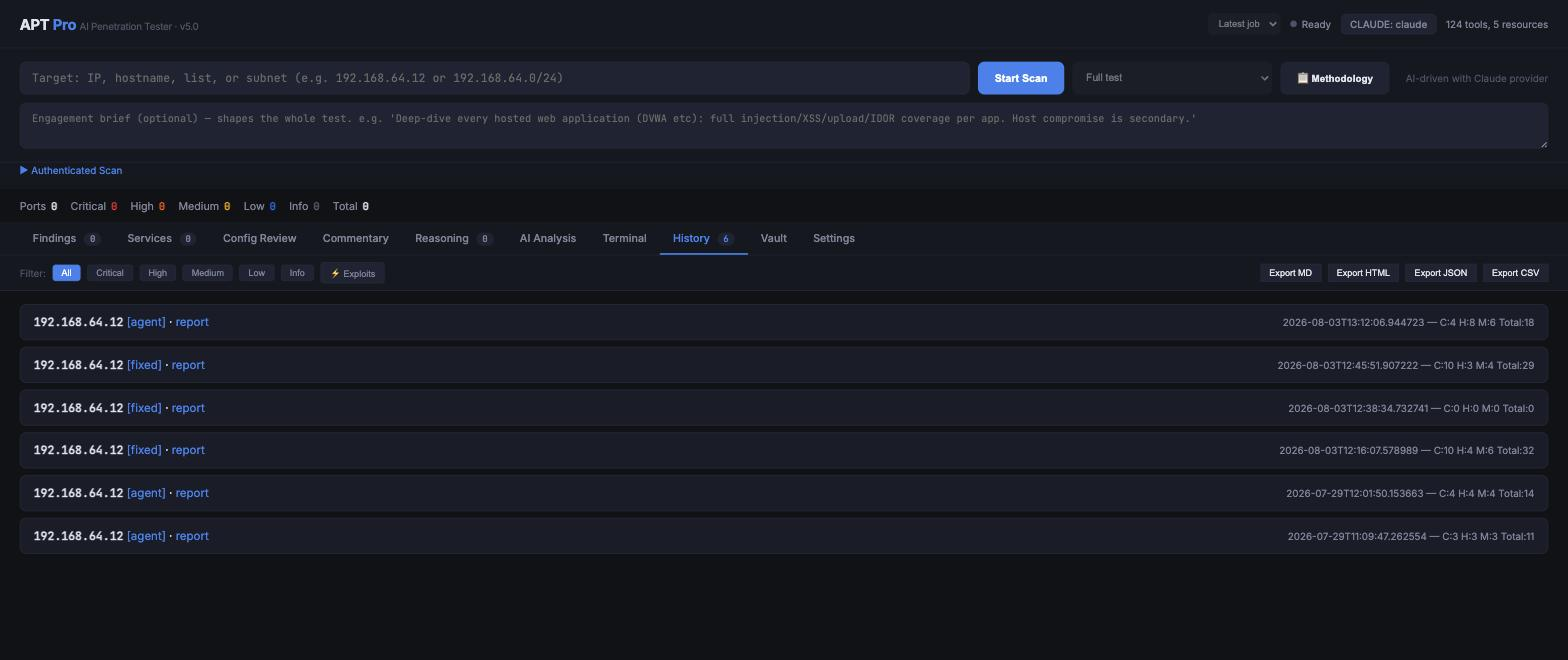
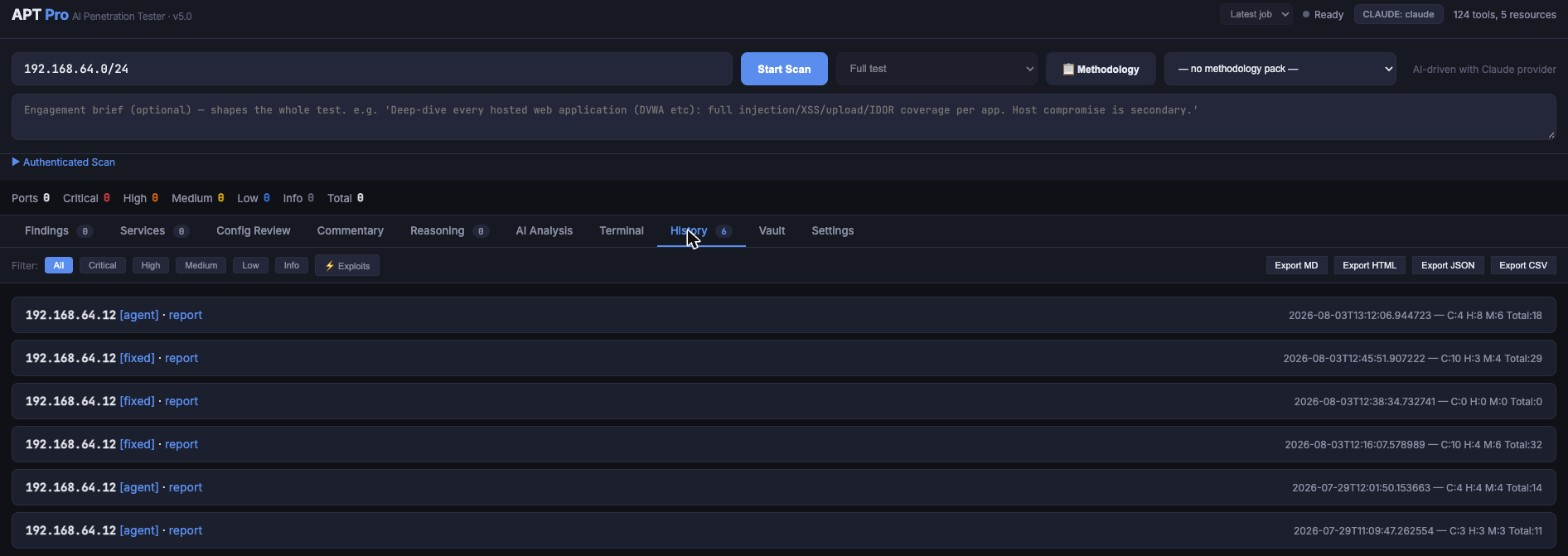
Rename ReconPro to APT Pro, add NightJARC2 graph view, refresh APT Pro screenshots

diff --git a/reconpro.html b/reconpro.html
@@ -3,7 +3,7 @@
 <head>
     <meta charset="UTF-8">
     <meta name="viewport" content="width=device-width, initial-scale=1">
-    <title>ReconPro · AI Penetration Testing Platform | Aaron Moorcroft</title>
+    <title>APT Pro · AI Penetration Testing Platform | Aaron Moorcroft</title>
     <meta name="description" content="An AI-driven penetration testing platform: a frontier agent drives nmap, nuclei, sqlmap, metasploit and the rest of the local toolset against authorised…">
     <link rel="icon" type="image/svg+xml" href="assets/favicon.svg">
     <!-- seo -->
@@ -12,19 +12,19 @@
     <meta name="theme-color" content="#05070b">
     <meta property="og:type" content="website">
     <meta property="og:site_name" content="CyberZombi3 · Aaron Moorcroft">
-    <meta property="og:title" content="ReconPro · AI Penetration Testing Platform | Aaron Moorcroft">
+    <meta property="og:title" content="APT Pro · AI Penetration Testing Platform | Aaron Moorcroft">
     <meta property="og:description" content="An AI-driven penetration testing platform: a frontier agent drives nmap, nuclei, sqlmap, metasploit and the rest of the local toolset against authorised…">
     <meta property="og:url" content="https://cyberzombi3.co.uk/reconpro.html">
     <meta property="og:image" content="https://cyberzombi3.co.uk/assets/images/reconpro.jpg">
     <meta property="og:locale" content="en_GB">
     <meta name="twitter:card" content="summary_large_image">
-    <meta name="twitter:title" content="ReconPro · AI Penetration Testing Platform | Aaron Moorcroft">
+    <meta name="twitter:title" content="APT Pro · AI Penetration Testing Platform | Aaron Moorcroft">
     <meta name="twitter:description" content="An AI-driven penetration testing platform: a frontier agent drives nmap, nuclei, sqlmap, metasploit and the rest of the local toolset against authorised…">
     <meta name="twitter:image" content="https://cyberzombi3.co.uk/assets/images/reconpro.jpg">
     <link rel="preconnect" href="https://fonts.googleapis.com">
     <link rel="preconnect" href="https://fonts.gstatic.com" crossorigin>
     <link rel="stylesheet" href="https://fonts.googleapis.com/css2?family=Inter:wght@400;500;600;700&family=Space+Grotesk:wght@500;600;700&family=JetBrains+Mono:wght@400;500;600&display=swap">
-    <script type="application/ld+json">{"@context": "https://schema.org", "@type": "CreativeWork", "name": "ReconPro", "description": "An AI-driven penetration testing platform: a frontier agent drives nmap, nuclei, sqlmap, metasploit and the rest of the local toolset against authorised…", "url": "https://cyberzombi3.co.uk/reconpro.html", "image": "https://cyberzombi3.co.uk/assets/images/reconpro.jpg", "author": {"@type": "Person", "name": "Aaron Moorcroft", "url": "https://cyberzombi3.co.uk/"}}</script>
+    <script type="application/ld+json">{"@context": "https://schema.org", "@type": "CreativeWork", "name": "APT Pro", "description": "An AI-driven penetration testing platform: a frontier agent drives nmap, nuclei, sqlmap, metasploit and the rest of the local toolset against authorised…", "url": "https://cyberzombi3.co.uk/reconpro.html", "image": "https://cyberzombi3.co.uk/assets/images/reconpro.jpg", "author": {"@type": "Person", "name": "Aaron Moorcroft", "url": "https://cyberzombi3.co.uk/"}}</script>
     <!-- /seo -->
     <link rel="stylesheet" href="assets/css/style.css?v=8">
 </head>
@@ -49,13 +49,13 @@
 
 <header class="page-header">
     <a href="projects.html" class="eyebrow-link">&larr; Projects</a>
-    <h1 class="page-title">ReconPro</h1>
+    <h1 class="page-title">APT Pro</h1>
     <p class="page-subtitle">An AI penetration testing platform. The agent plans and executes the test itself, from recon through to exploitation and reporting, driving the real local toolset, and every finding it records is verified with command output rather than inferred from a banner.</p>
     <div class="tag-row">
         <span class="tag">Python</span>
         <span class="tag">FastAPI</span>
         <span class="tag">Claude Agent SDK</span>
-        <span class="tag tag-muted">129 tools</span>
+        <span class="tag tag-muted">124 tools</span>
         <span class="tag tag-muted">Authorised targets only</span>
     </div>
 </header>
@@ -70,7 +70,7 @@
 
     <h2 class="section-header">&gt; Scan history and diffing</h2>
     <img src="assets/images/reconpro.jpg" class="project-image"
-         alt="The ReconPro interface showing the scan history tab: six runs against a lab host, each row tagged agent or fixed with its critical, high and medium counts, above tabs for findings, services, config review, reasoning, terminal and the credential vault">
+         alt="The APT Pro interface showing the scan history tab: six runs against a lab host, each row tagged agent or fixed with its critical, high and medium counts, above tabs for findings, services, config review, reasoning, terminal and the credential vault">
 
     <p class="text-block">
         Every run against a host is kept, so a re-scan is a comparison rather than a fresh
@@ -85,7 +85,7 @@
         why scanner output needs a human to triage it before anyone will act on it.
     </p>
     <p class="text-block">
-        ReconPro's agent has to <em>demonstrate</em> the finding. It runs the check, reads the
+        APT Pro's agent has to <em>demonstrate</em> the finding. It runs the check, reads the
         output, and only records a finding when it has evidence. The command and its output are
         attached to the finding itself. Where it can go further it does: it exploits, captures
         credentials, and stores them for reuse against the rest of the estate on later scans.
@@ -95,7 +95,7 @@
     <p class="text-block">
         A FastAPI server on loopback serves a single-page operator UI. The agent drives whatever
         is on <code>PATH</code>: nmap, nuclei, sqlmap, metasploit, enum4linux, hydra,
-        bloodhound-python and around 129 tools in total. The whole run streams live into
+        bloodhound-python and around 124 tools in total. The whole run streams live into
         the browser so you can watch it think and intervene.
     </p>
     <p class="text-block">
@@ -127,7 +127,7 @@
 
     <h2 class="section-header">&gt; What a report looks like</h2>
     <img src="assets/images/reconpro-report.jpg" class="project-image"
-         alt="A generated ReconPro scan report in Markdown: open ports, then eighteen new verified findings including EternalBlue and several DVWA injection issues, then a separate section listing twenty-nine findings not re-observed this scan and flagged for verification before being treated as fixed">
+         alt="A generated APT Pro scan report in Markdown for a lab host: open ports, a changes-since-previous-scan diff, and twenty-nine findings with CVEs, CVSS scores and config issues, each written up with evidence">
 
     <p class="text-block">
         This is a real report against a deliberately vulnerable lab VM, and the structure is the

diff --git a/projects.html b/projects.html
@@ -278,10 +278,10 @@
         </a>
 
         <a href="reconpro.html" class="project-card" data-cat="security ai">
-            <div class="card-media"><img src="assets/images/reconpro.jpg" alt="ReconPro" loading="lazy"></div>
+            <div class="card-media"><img src="assets/images/reconpro.jpg" alt="APT Pro" loading="lazy"></div>
             <div class="card-body">
-            <h3>ReconPro</h3>
-            <p>An AI penetration testing platform. The agent plans and runs the test itself across 129 local tools, verifies every finding with command output as evidence rather than inferring it from a version banner, diffs each scan against the last, and writes the report.</p>
+            <h3>APT Pro</h3>
+            <p>An AI penetration testing platform. The agent plans and runs the test itself across 124 local tools, verifies every finding with command output as evidence rather than inferring it from a version banner, diffs each scan against the last, and writes the report.</p>
             <div class="tag-row">
                 <span class="tag tag-muted">Python</span>
                 <span class="tag tag-muted">Claude Agent SDK</span>

diff --git a/nightjarc2.html b/nightjarc2.html
@@ -80,6 +80,16 @@
         you can never run a command without the log of it being one click away.
     </p>
 
+    <h2 class="section-header">&gt; The graph</h2>
+    <img src="assets/images/nightjarc2-graph.jpg" class="project-image"
+         alt="The NightJARC2 graph view: the team server at the centre with each compromised host drawn as a node, a live beacon glowing green with an animated link back to the server while dormant hosts sit faded, wired together by their call-home paths">
+
+    <p class="text-block">
+        The same estate as a live map. The team server sits at the hub and every host that has
+        checked in hangs off it, so a glance tells you what is live, what has gone quiet, and how
+        the beacons chain back. A live beacon pulses green along its link; the rest fade out.
+    </p>
+
     <h2 class="section-header">&gt; Host view and listeners</h2>
     <img src="assets/images/nightjarc2-hosts.jpg" class="project-image"
          alt="The NightJARC2 host view: cards per host summarising beacons, naming context, Kerberoastable accounts, domain policy weaknesses and Linux privilege-escalation findings">

diff --git a/about.html b/about.html
@@ -89,7 +89,7 @@
         near a real network.
     </p>
     <p class="text-block">
-        A few of my projects are AI tools in their own right: <a href="reconpro.html">ReconPro</a>, an AI
+        A few of my projects are AI tools in their own right: <a href="reconpro.html">APT Pro</a>, an AI
         pentesting platform that verifies every finding with evidence; my <a href="pentest-harness.html">pentest
         harnesses</a>, which turn a written methodology into executable skills for an agent; and
         <a href="cdmf.html">CDMF</a>, a detect-and-mitigate loop with an agent attacking its own fixes.

diff --git a/index.html b/index.html
@@ -80,7 +80,7 @@
 <section class="stats">
     <div class="stat"><b class="gradient-text">16</b><span>projects and counting</span></div>
     <div class="stat"><b class="gradient-text">17k</b><span>lines of AI-built assembly in CyberOS</span></div>
-    <div class="stat"><b class="gradient-text">129</b><span>local tools driven by ReconPro's agent</span></div>
+    <div class="stat"><b class="gradient-text">124</b><span>local tools driven by APT Pro's agent</span></div>
     <div class="stat"><b class="gradient-text">3</b><span>games, two of them for iPhone</span></div>
 </section>
 
